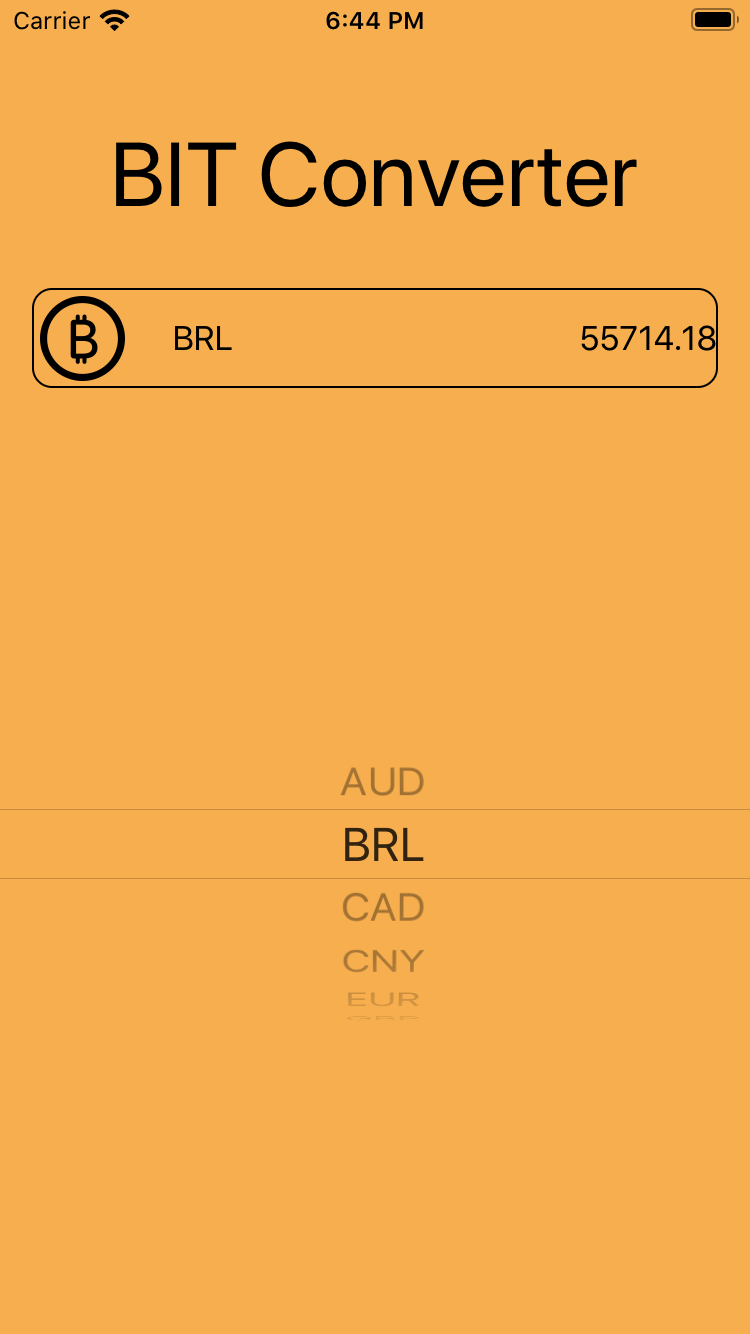
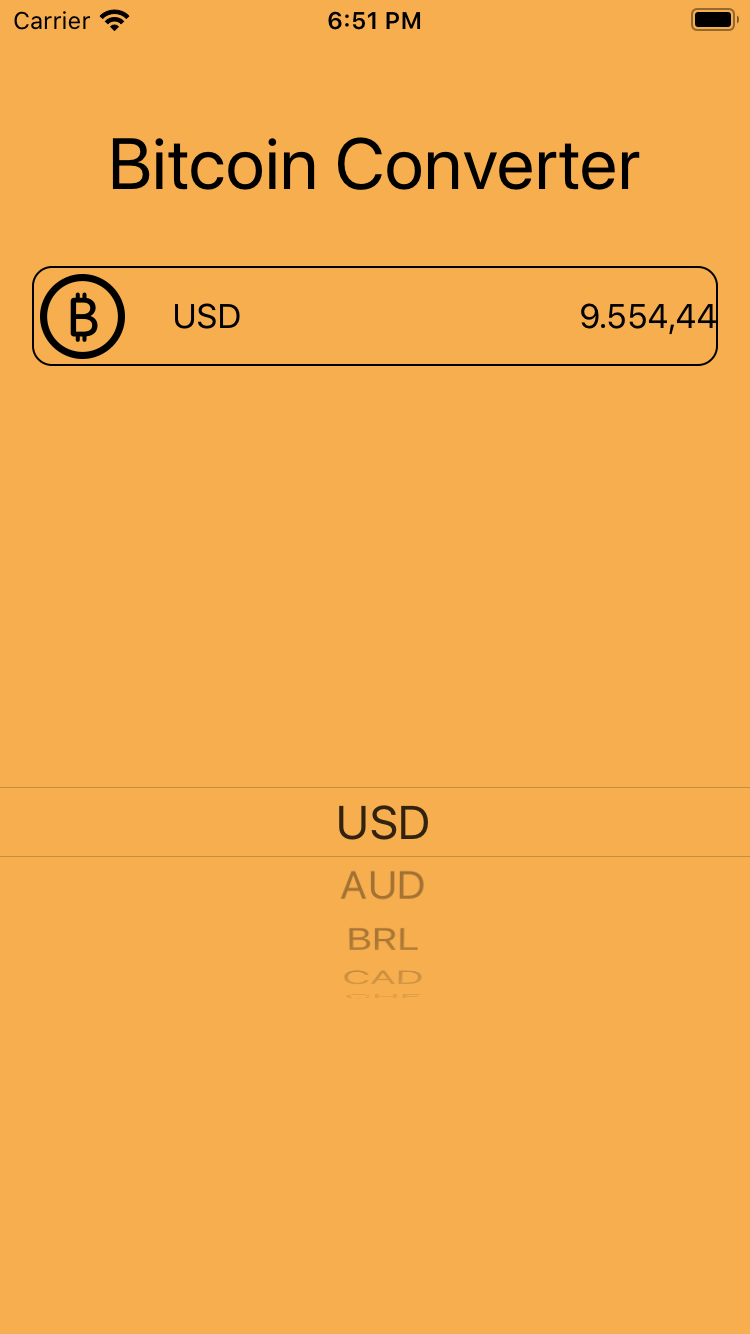
update readme

diff --git a/bitcoin-converter/AppDelegate.swift b/bitcoin-converter/AppDelegate.swift
@@ -11,11 +11,16 @@ import CoreData
 
 @UIApplicationMain
 class AppDelegate: UIResponder, UIApplicationDelegate {
-
-
-
+    
+    var window: UIWindow?
+    
+    var coinManager = CoinManager()
+    
     func application(_ application: UIApplication, didFinishLaunchingWithOptions launchOptions: [UIApplication.LaunchOptionsKey: Any]?) -> Bool {
         // Override point for customization after application launch.
+        coinManager.fetchCoinPrice()
+        coinManager.retreiveData(currency: "USD")
+        
         return true
     }
 
@@ -32,7 +37,7 @@ class AppDelegate: UIResponder, UIApplicationDelegate {
         // If any sessions were discarded while the application was not running, this will be called shortly after application:didFinishLaunchingWithOptions.
         // Use this method to release any resources that were specific to the discarded scenes, as they will not return.
     }
-
+    
     // MARK: - Core Data stack
 
     lazy var persistentContainer: NSPersistentContainer = {

diff --git a/bitcoin-converter/Controller/ViewController.swift b/bitcoin-converter/Controller/ViewController.swift
@@ -17,13 +17,16 @@ class ViewController: UIViewController {
     
     var coinManager = CoinManager()
     
+    
     override func viewDidLoad() {
         super.viewDidLoad()
+
         coinManager.delegate = self
         currentPicker.delegate = self
         currentPicker.dataSource = self
         
         coinManager.fetchCoinPrice()
+        coinManager.retreiveData(currency: "USD")
     }
 
 }

diff --git a/README.md b/README.md
@@ -30,6 +30,8 @@
 <img src="screen-shot/1.png" width="200" height="356" />
 </h2>
 
+## 🔖 API
+https://blockchain.info/ticker
 
 ## 📌 Support
 
